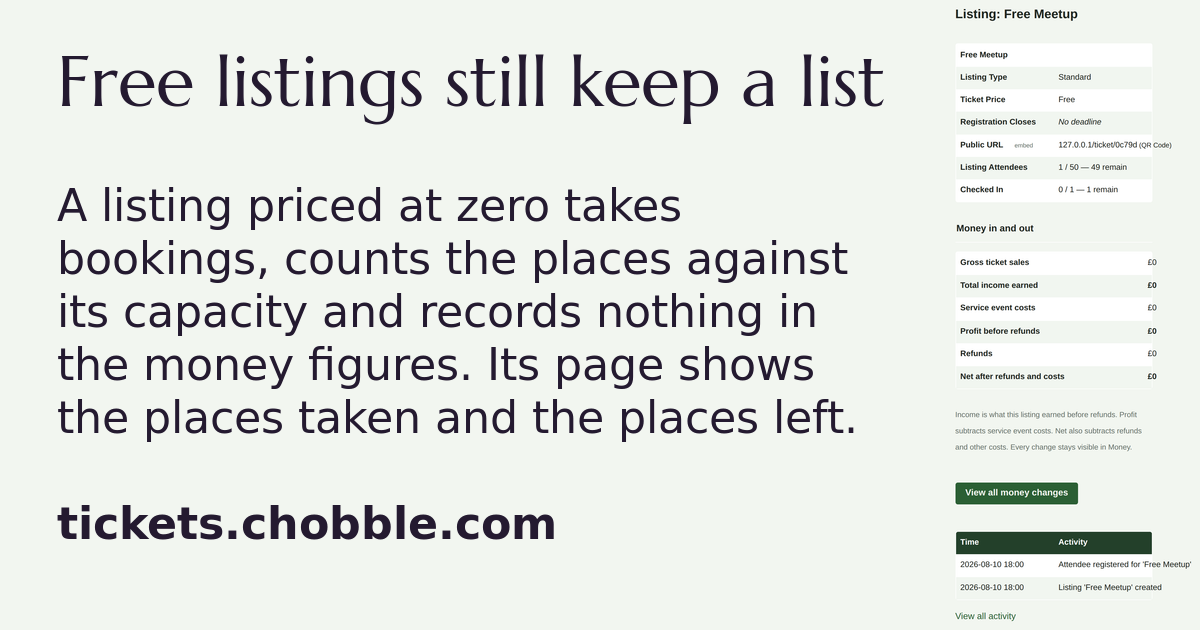
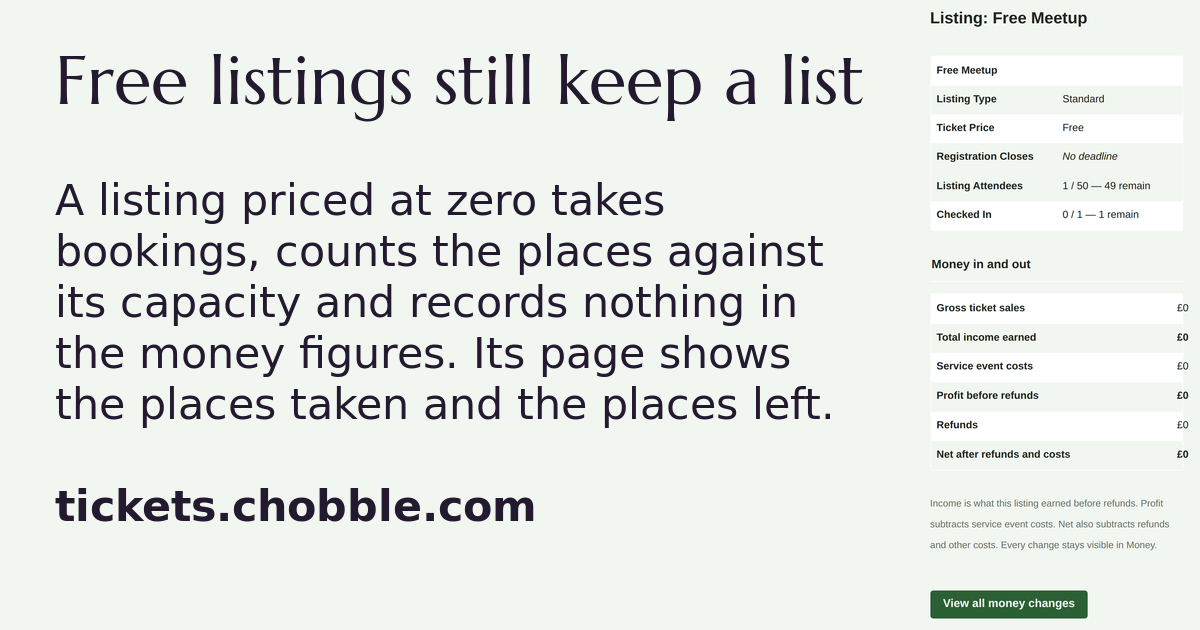
Keep the free listing's capture the same from run to run
Two things on the captured page changed every time it was photographed:
the public address carries a slug made fresh for each run, and the
activity block is stamped with the moment the capture ran. Neither is
what the case proves, and both would rewrite the PNG and its lock hash
on every nightly run, raising an evidence pull request with nothing in
it.

The theme now hides both, the way the activity-log theme already hides
its Time column. Two capture runs of the same commit gave different
bytes before and identical bytes after.

Claude-Session: https://claude.ai/code/session_01UU8geYkKNGrFu5ArzfxSC6

diff --git a/evidence-themes/free-headcount-no-money.css b/evidence-themes/free-headcount-no-money.css
@@ -35,6 +35,17 @@ main nav:not(.entity-tabs),
   display: none;
 }
 
+/* Two things on this page are different every time it is photographed, and
+ * neither is what the case proves. The public address carries the listing's
+ * slug, which is made fresh for each run, and the activity block is stamped
+ * with the moment the capture ran. Left in, they would rewrite this PNG and
+ * its lock hash on every nightly run and raise an evidence pull request with
+ * nothing in it. Same reason the activity-log theme hides its Time column. */
+main tr:has(.listing-embed-toggle),
+main .page-block:has(a[href$="/activity"]) {
+  display: none;
+}
+
 /* The site's row striping paints alternate rows in --color-table, which is a
  * dark ink here, so the headcount row came out dark on dark. Rows stay light
  * and take the body colour; only the header keeps the dark band. */
